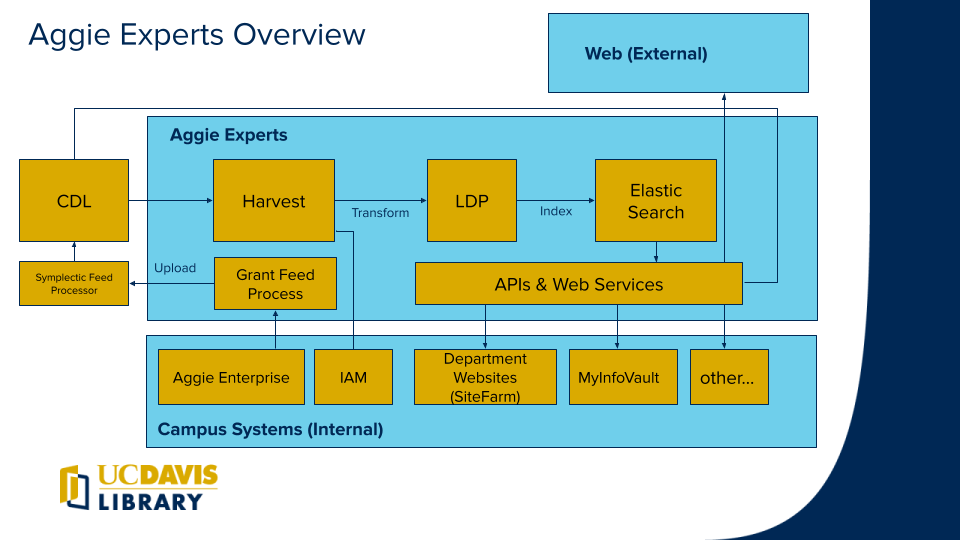
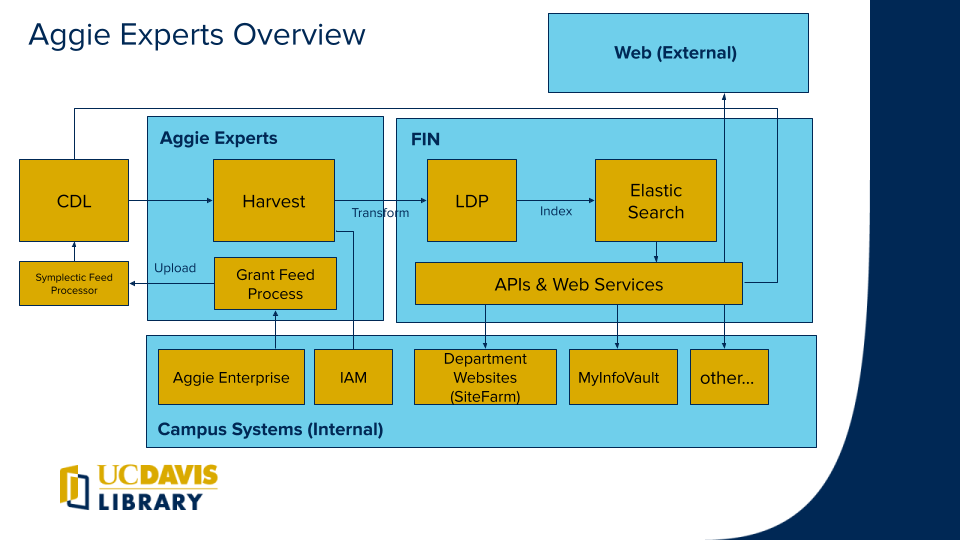
refine

Changed region(s): [[0.375, 0.2074, 0.875, 0.6222], [0.5938, 0.0889, 0.7812, 0.1185], [0.1562, 0.237, 0.3125, 0.2667]]

diff --git a/doc/ae-dataflow-overview.md b/doc/ae-dataflow-overview.md
@@ -1,8 +1,9 @@
 ![Overview of the Aggie Experts Dataflow](Aggie-Experts-Overview.png)
 
 - CDL - The California Digital Library hosts an instance of [Symplectic Elements](https://oapolicy.universityofcalifornia.edu) to facilitate [UC open access (OA) policies](https://osc.universityofcalifornia.edu/for-authors/open-access-policy/policy-faq/) 
-- Harvest - Aggie Experts uses the [Harvest process](experts-deploy-harvest.md) to pull researchers, publications, and grants from the CDL using the Symplectic API
-- LDP - Aggie Experts stores data in a [Fedora](https://wiki.lyrasis.org/display/FF/Fedora+Repository+Home) Linked Data Platform
+- Harvest - Aggie Experts uses the [Harvest process](experts-deploy-harvest.md) to pull researchers, publications, and grants from the CDL using the [Symplectic API](https://support.symplectic.co.uk/support/solutions/folders/6000177986)
+- [FIN](https://github.com/ucd-library/fin/blob/main/docs/README.md) - Fin is a microservice based Fedora repository (fcrepo) developed by the UCD Library. It provides services to support the LDP, HTTP APIs, authentication, and more.   
+- LDP - Aggie Experts leverages FIN to store data in a [Fedora](https://wiki.lyrasis.org/display/FF/Fedora+Repository+Home) Linked Data Platform
 - Elastic Search - Aggie Experts uses [Elastic Search](digital_objects.org) to support query and presentation of experts, works, and grants.  
 - Symplectic Feed Processor - Researcher, publications, and grants are imported into the CDL Elements system via the [Symplectic FTP](https://support.symplectic.co.uk/support/solutions/articles/6000271954-secure-ftp-server-access) service based scheduled jobs.
 - Grant Processor - Grants are imported into Aggie Experts via a process documented here: [Grant Feed Process](grant-feed.md)
